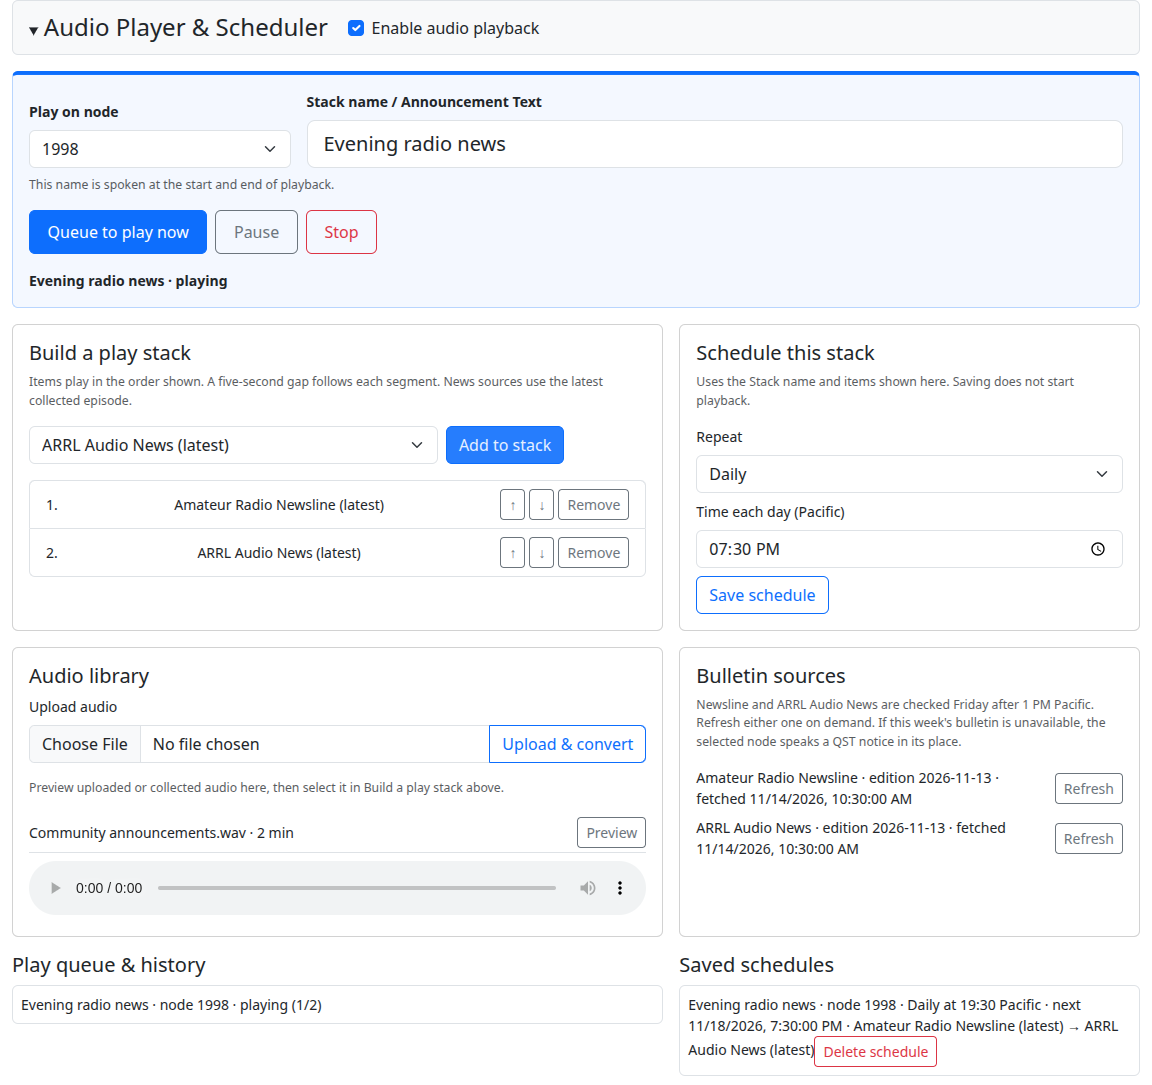
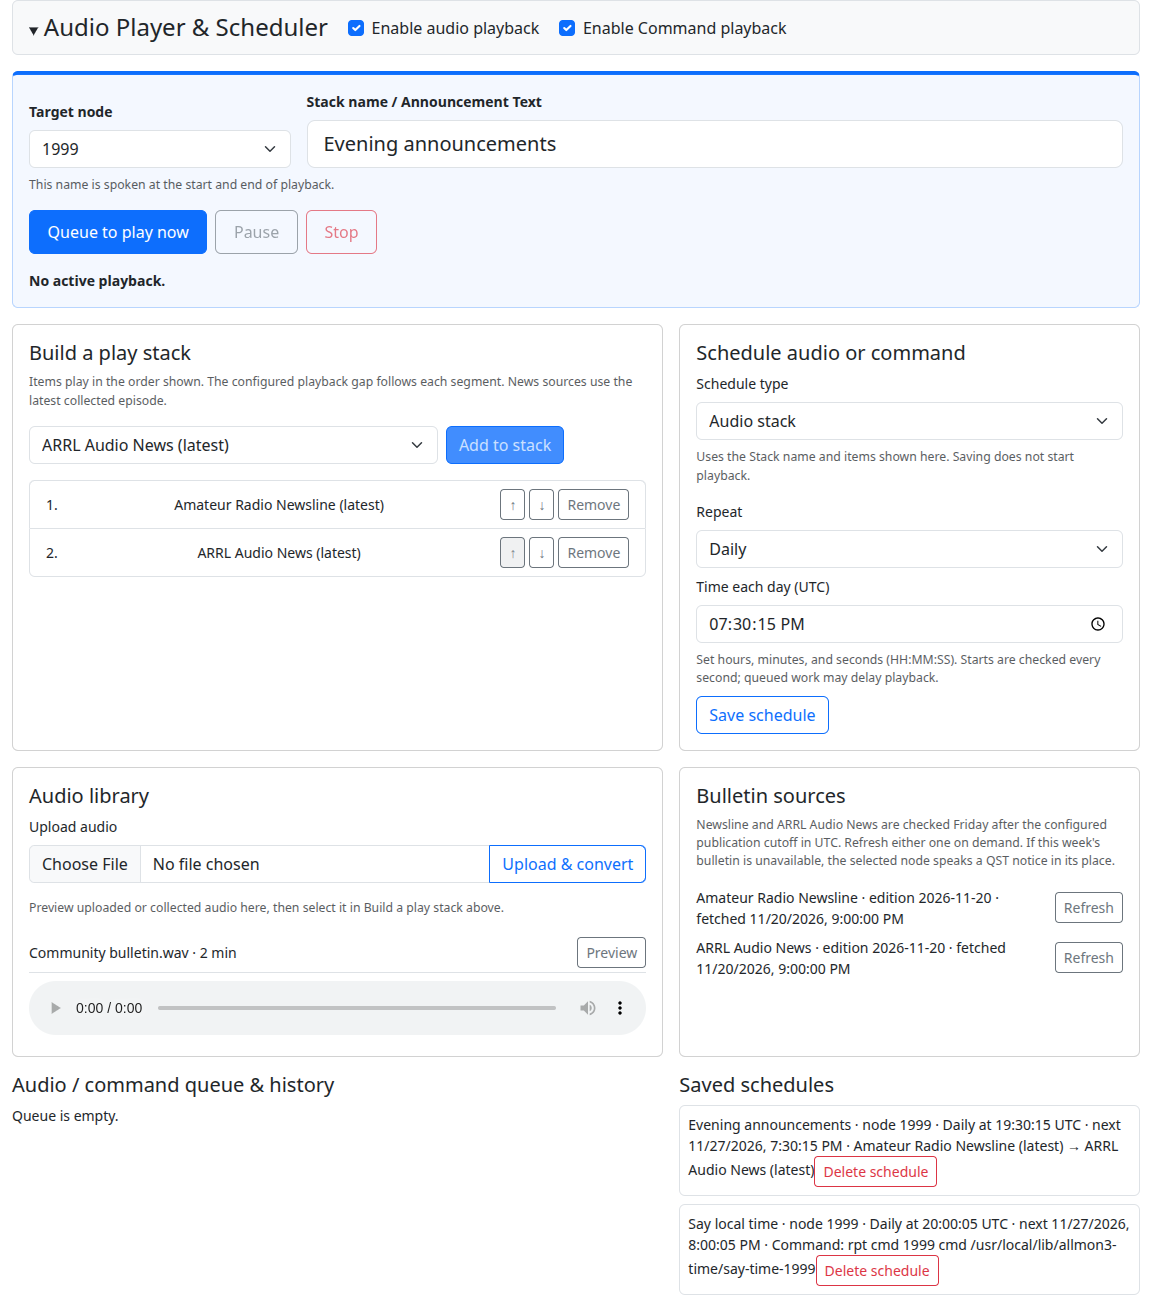
docs: refresh scheduler desktop screenshots and remove mobile shots
Captured from current UI code with simulated example data. No live programming or playback. Desktop images only.

Assisted-by: OpenAI Codex GPT-6

diff --git a/.github/screenshots/README.md b/.github/screenshots/README.md
@@ -1,0 +1,5 @@
+# Desktop UI examples
+
+Captured 2026-11-26 from this PR's current UI code in Chromium at a 1440-pixel desktop viewport; some images crop to the relevant panel.
+
+API responses, node numbers, names, log entries and radio settings are demonstration fixtures, not production data or radio readback. No live backend, radio programming, playback or connection command was used for these images. Mobile screenshots have been omitted.
